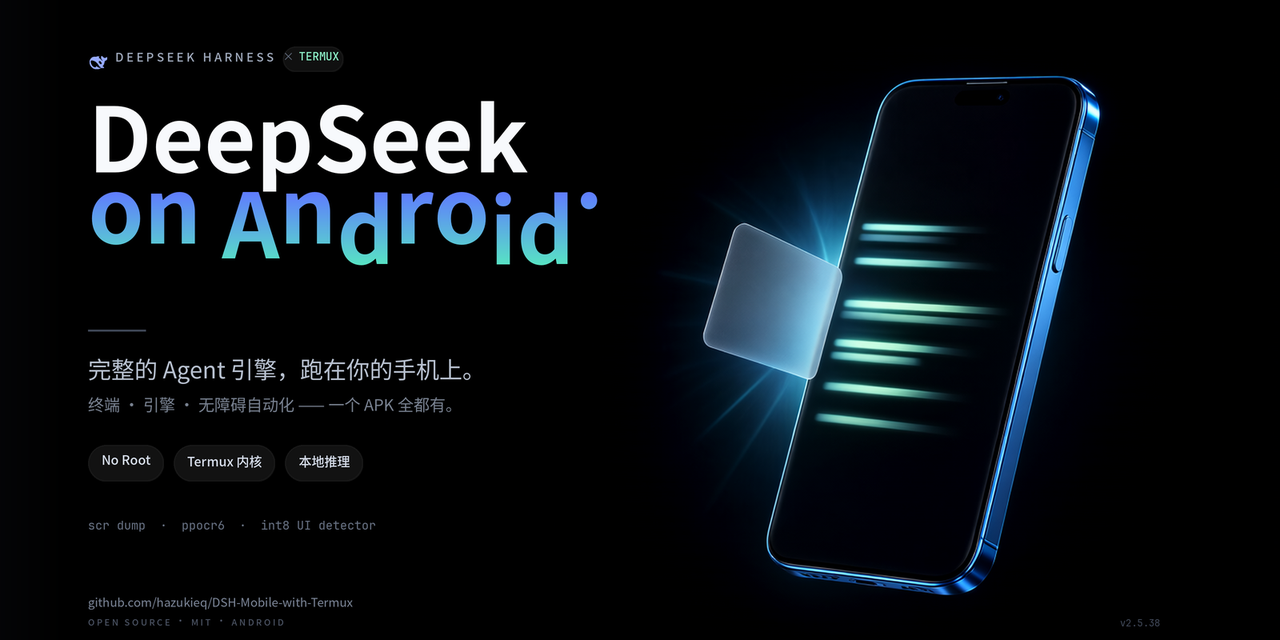
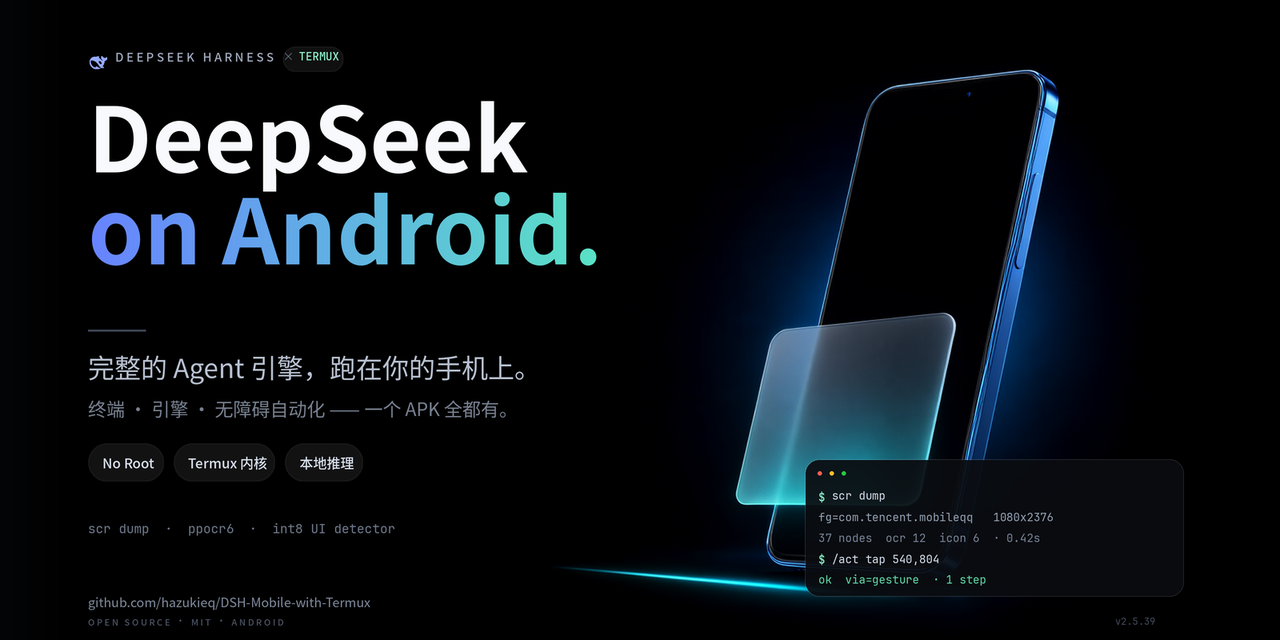
fix(promo): 重做海报 v3——底图屏幕全黑、去掉像乱码的发光条纹，终端卡用真实等宽字
用户反馈「字都是歪歪扭扭的」：问题出在 v4 底图手机屏幕上那排模型生成的「抽象代码光带」，
缩略图里就是一堆歪歪扭扭的伪文字。改法：

- 底图重新生成（Qwen-Image 2.1，seed 31337）：提示词明确 `screen is completely off and
  pitch black, no content, no letters`，屏幕彻底不亮，不再有任何伪字形。
- 画面右下叠一枚直排终端玻璃卡，内容是真实回执（JetBrains Mono 逐行排版，非模型绘制）：
  `$ scr dump` / `fg=com.tencent.mobileqq 1080x2376` / `37 nodes ocr 12 icon 6 · 0.42s` /
  `$ /act tap 540,804` / `ok via=gesture · 1 step`。等宽字体不含 CJK，故不写中文避免方块字。
- 同时修排版：标题渐变改水平方向（每个字母自身明度一致，竖向渐变会让笔画上暗下亮、像在抖）、
  整串绘制保留字距（原先逐字画导致字距不匀）、副标题 29→33、说明行 20→23、胶囊 16→17、
  等宽证据行 15→16、页脚 15→16（README 宽度 860px 下 CJK 不至于糊）、版本号 v2.5.39。
- `source/qwen-hero-v5.png` 替换 v4；`render_banner_v2.py`、`design.md`、`manifest.json`
  （banner-v3）同步记录缘由；四份产物（1600×900 / 3200×1800 / webp / 1280×640）重出。

diff --git a/docs/promo/render_banner_v2.py b/docs/promo/render_banner_v2.py
@@ -25,23 +25,25 @@ def fit_base(path):
     x=(im.width-tw)//2; y=(im.height-th)//2
     return im.crop((x,y,x+tw,y+th))
 
-def grad_text(img, xy, value, size, weight, top, bottom, tracking=0):
+def grad_text(img, xy, value, size, weight, left_color, right_color, tracking=0):
     l,t=xy
     ft=f(size,weight)
     mask=Image.new('L', img.size, 0)
-    d=ImageDraw.Draw(mask)
-    x=l*S
-    for ch in value:
-        d.text((x, t*S), ch, font=ft, fill=255, anchor='lt')
-        x+=d.textlength(ch,font=ft)+tracking*S
-    bb=mask.getbbox() or (int(l*S),int(t*S),int((l+600)*S),int((t+size)*S))
-    y0,y1=bb[1],bb[3]
-    h=max(1,y1-y0)
-    arr=np.zeros((img.height,img.width,3),np.uint8)
-    c0=np.array(top,dtype=float); c1=np.array(bottom,dtype=float)
-    ys=np.clip((np.arange(img.height)-y0)/h,0,1).reshape(-1,1,1)
-    col=np.clip(c0*(1-ys)+c1*ys,0,255).astype(np.uint8)
-    arr[:]=col
+    md=ImageDraw.Draw(mask)
+    if tracking:
+        x=l*S
+        for ch in value:
+            md.text((x, t*S), ch, font=ft, fill=255, anchor='lt')
+            x+=md.textlength(ch,font=ft)+tracking*S
+    else:
+        md.text((l*S, t*S), value, font=ft, fill=255, anchor='lt')
+    bb=mask.getbbox() or (int(l*S),int(t*S),int((l+900)*S),int((t+size)*S))
+    x0,x1=bb[0],bb[2]
+    w=max(1,x1-x0)
+    xs=np.clip((np.arange(img.width)-x0)/w,0,1).reshape(1,-1,1)
+    c0=np.array(left_color,dtype=float); c1=np.array(right_color,dtype=float)
+    row=np.clip(c0*(1-xs)+c1*xs,0,255).astype(np.uint8)
+    arr=np.repeat(row,img.height,axis=0)
     layer=Image.fromarray(arr).convert('RGBA'); layer.putalpha(mask)
     img.alpha_composite(layer)
 
@@ -139,14 +141,14 @@ def main():
 
     # 主标题
     text(d,(110,176),'DeepSeek',112,TXT,'Bold')
-    grad_text(img,(110,290),'on Android.',112,'Bold',(96,124,255),(88,228,196))
+    grad_text(img,(110,290),'on Android.',112,'Bold',(104,132,255),(90,226,198))
 
     # 分隔线
     d.rectangle((110*S,462*S,182*S,464*S),fill=(62,70,86))
 
     # 中文
-    text(d,(110,498),'完整的 Agent 引擎，跑在你的手机上。',29,SUB,'Regular')
-    text(d,(110,546),'终端 · 引擎 · 无障碍自动化 —— 一个 APK 全都有。',20,DIM,'Regular')
+    text(d,(110,494),'完整的 Agent 引擎，跑在你的手机上。',33,SUB,'Regular')
+    text(d,(110,550),'终端 · 引擎 · 无障碍自动化 —— 一个 APK 全都有。',23,DIM,'Regular')
 
     # 玻璃 pills
     pills=['No Root','Termux 内核','本地推理']
@@ -154,19 +156,42 @@ def main():
     for p in pills:
         wt=d.textlength(p,font=f(16,'Medium'))/S
         w=wt+34
-        glass(img,(x,606,x+w,606+46),23)
-        text(d,(x+17,619),p,16,(215,222,235),'Medium')
+        glass(img,(x,604,x+w,604+48),24)
+        d.text(((x+18)*S,(604+24)*S), p, font=f(17,'Medium'), fill=(215,222,235), anchor='lm')
         x+=w+12
 
     # 能力行
-    mono(d,(110,700),'scr dump  ·  ppocr6  ·  int8 UI detector',15,(104,114,132))
+    mono(d,(110,704),'scr dump  ·  ppocr6  ·  int8 UI detector',16,(110,120,138))
+
+    # 终端玻璃面板（真实等宽文字；不用 CJK，避免等宽字体缺字变方块）
+    px,py,pw,ph=1006,624,474,172
+    card=Image.new('RGBA',(pw*S,ph*S),(0,0,0,0))
+    cd=ImageDraw.Draw(card)
+    cd.rounded_rectangle((0,0,pw*S-1,ph*S-1),radius=18*S,fill=(10,12,16,238),outline=(255,255,255,34),width=max(1,S))
+    img.alpha_composite(card,(px*S,py*S))
+    d2=ImageDraw.Draw(img)
+    for i,col in enumerate([(255,95,86),(255,189,46),(39,201,63)]):
+        d2.ellipse(((px+16+i*15)*S,(py+15)*S,(px+21+i*15)*S,(py+20)*S),fill=col+(255,))
+    lines=[('$ ', (141,240,200,255), 'scr dump', (212,221,236,255)),
+           ('',  None, 'fg=com.tencent.mobileqq   1080x2376', (146,158,176,255)),
+           ('',  None, '37 nodes  ocr 12  icon 6  · 0.42s', (118,130,148,255)),
+           ('$ ', (141,240,200,255), '/act tap 540,804', (212,221,236,255)),
+           ('',  None, 'ok  via=gesture  · 1 step', (96,214,168,255))]
+    ty=py+40
+    for prompt,pcol,rest,tcol in lines:
+        x=px+17
+        if prompt:
+            d2.text((x*S,ty*S),prompt,font=fm(14,'SemiBold'),fill=pcol,anchor='lt')
+            x+=d2.textlength(prompt,font=fm(14,'SemiBold'))/S
+        d2.text((x*S,ty*S),rest,font=fm(14,'Regular'),fill=tcol,anchor='lt')
+        ty+=26
 
     # 页脚
-    text(d,(110,796),'github.com/hazukieq/DSH-Mobile-with-Termux',15,(122,132,150),'Regular')
+    text(d,(110,796),'github.com/hazukieq/DSH-Mobile-with-Termux',16,(126,136,154),'Regular')
     text(d,(110,824),'OPEN SOURCE · MIT · ANDROID',11,(74,82,98),'Medium',2.6)
 
     # 右下角角标
-    mono(d,(1400,824),'v2.5.38',12,(64,72,88))
+    mono(d,(1394,822),'v2.5.39',12,(64,72,88))
 
     final=img.convert('RGB')
     final.save(OUT+'.png')

diff --git a/docs/promo/design.md b/docs/promo/design.md
@@ -7,8 +7,12 @@
 ## 视觉方案
 
 深黑底 + 单点冷光。左半屏是纯黑负空间与排版，右半屏是一台悬浮 Android 手机：金属边被
-蓝宝石色轮廓光勾出，屏幕里只有抽象的青绿色代码光带（不含任何字形），左下有一道细青色
-镜头光斑，手机左前浮着一块磨砂玻璃卡片。
+蓝宝石色轮廓光勾出，**屏幕全黑不通电**，手机前方浮着一块磨砂玻璃卡片；画面右下再叠一枚直排
+终端玻璃卡（真实 JetBrains Mono 等宽字，写 `scr dump` / `/act tap` 的真实回执）。
+
+> 为什么屏幕是黑的：v4 让模型在屏幕里画了「抽象代码光带」，缩略图里看着像乱码文字；
+v5 直接把屏幕提示词改成 `screen is completely off and pitch black`，再把真正的命令回执
+用字体排上去——一切文字都必须由 Pillow 画，模型不画字。
 
 - **融合语义**：深蓝 = DeepSeek，薄荷绿（`#8DF0C8`）= Termux 终端；品牌行写
   `DEEPSEEK HARNESS × TERMUX`，其中 TERMUX 是绿色等宽字的玻璃胶囊，即「两个世界拼成一个 App」。
@@ -27,8 +31,8 @@
 
 1. `qwen_t2i.py`：向本机 ComfyUI（`127.0.0.1:8188`）提交 API 图；模型
    `qwen_image_2.1_int8_convrot` + `qwen3vl_8b_int8_convrot` + `qwen_image_2.1_vae_bf16`；
-   采样 `euler/simple`、28 步、cfg 3.0、`ModelSamplingAuraFlow` shift 3.1、1600×896、seed 90210。
-   一次约 120 s。
+   采样 `euler/simple`、28 步、cfg 3.0、`ModelSamplingAuraFlow` shift 3.1、1600×896、seed 31337（v5）。
+   一次约 100–120 s。
 2. 提示词（精选）：`Apple keynote hero product shot, pure black background, one modern Android
    smartphone ... screen is dark with only soft abstract horizontal bars of cyan and mint light ...
    absolutely no characters, no letters, no numbers, no symbols on screen ... huge clean black
@@ -42,7 +46,7 @@
 - `dsh-mobile-github@2x.png` 3200 × 1800
 - `dsh-mobile-github.webp` 1600 × 900（网页轻量副本）
 - `dsh-mobile-social.png` 1280 × 640（社交预览）
-- `source/qwen-hero-v4.png`：选用的生成底图（未叠字）
+- `source/qwen-hero-v5.png`：选用的生成底图（未叠字，屏幕全黑）
 - `qwen_t2i.py` / `render_banner_v2.py`：可复现的生成与排版脚本
 - `manifest.json`：模型、seed、提示词要点、字体、sha256 清单
 - `samples/`：点击链路文档用的真机标注图（见 `docs/CLICK_CHAIN_UPGRADE.md`）
